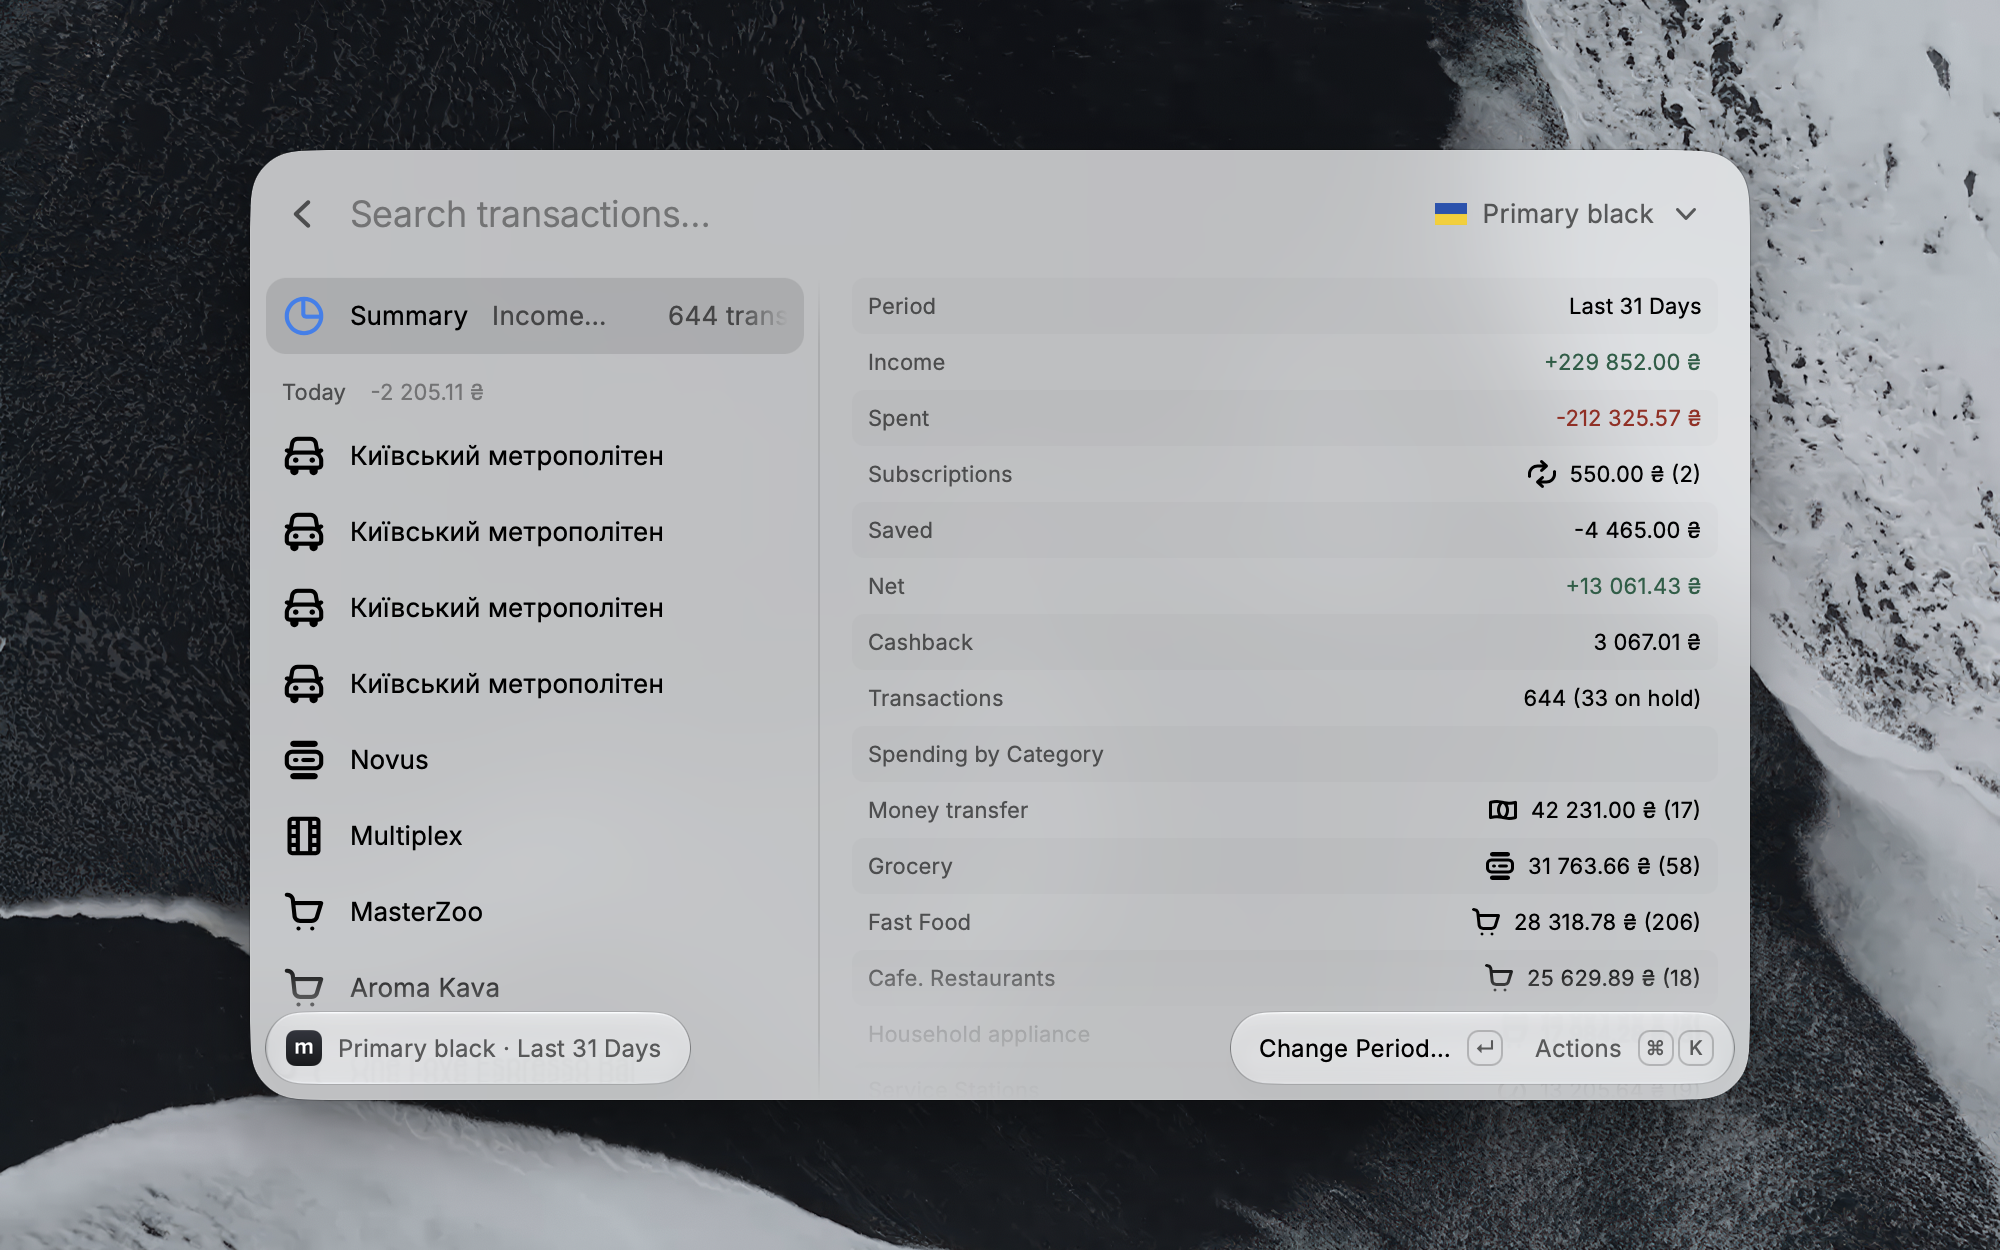
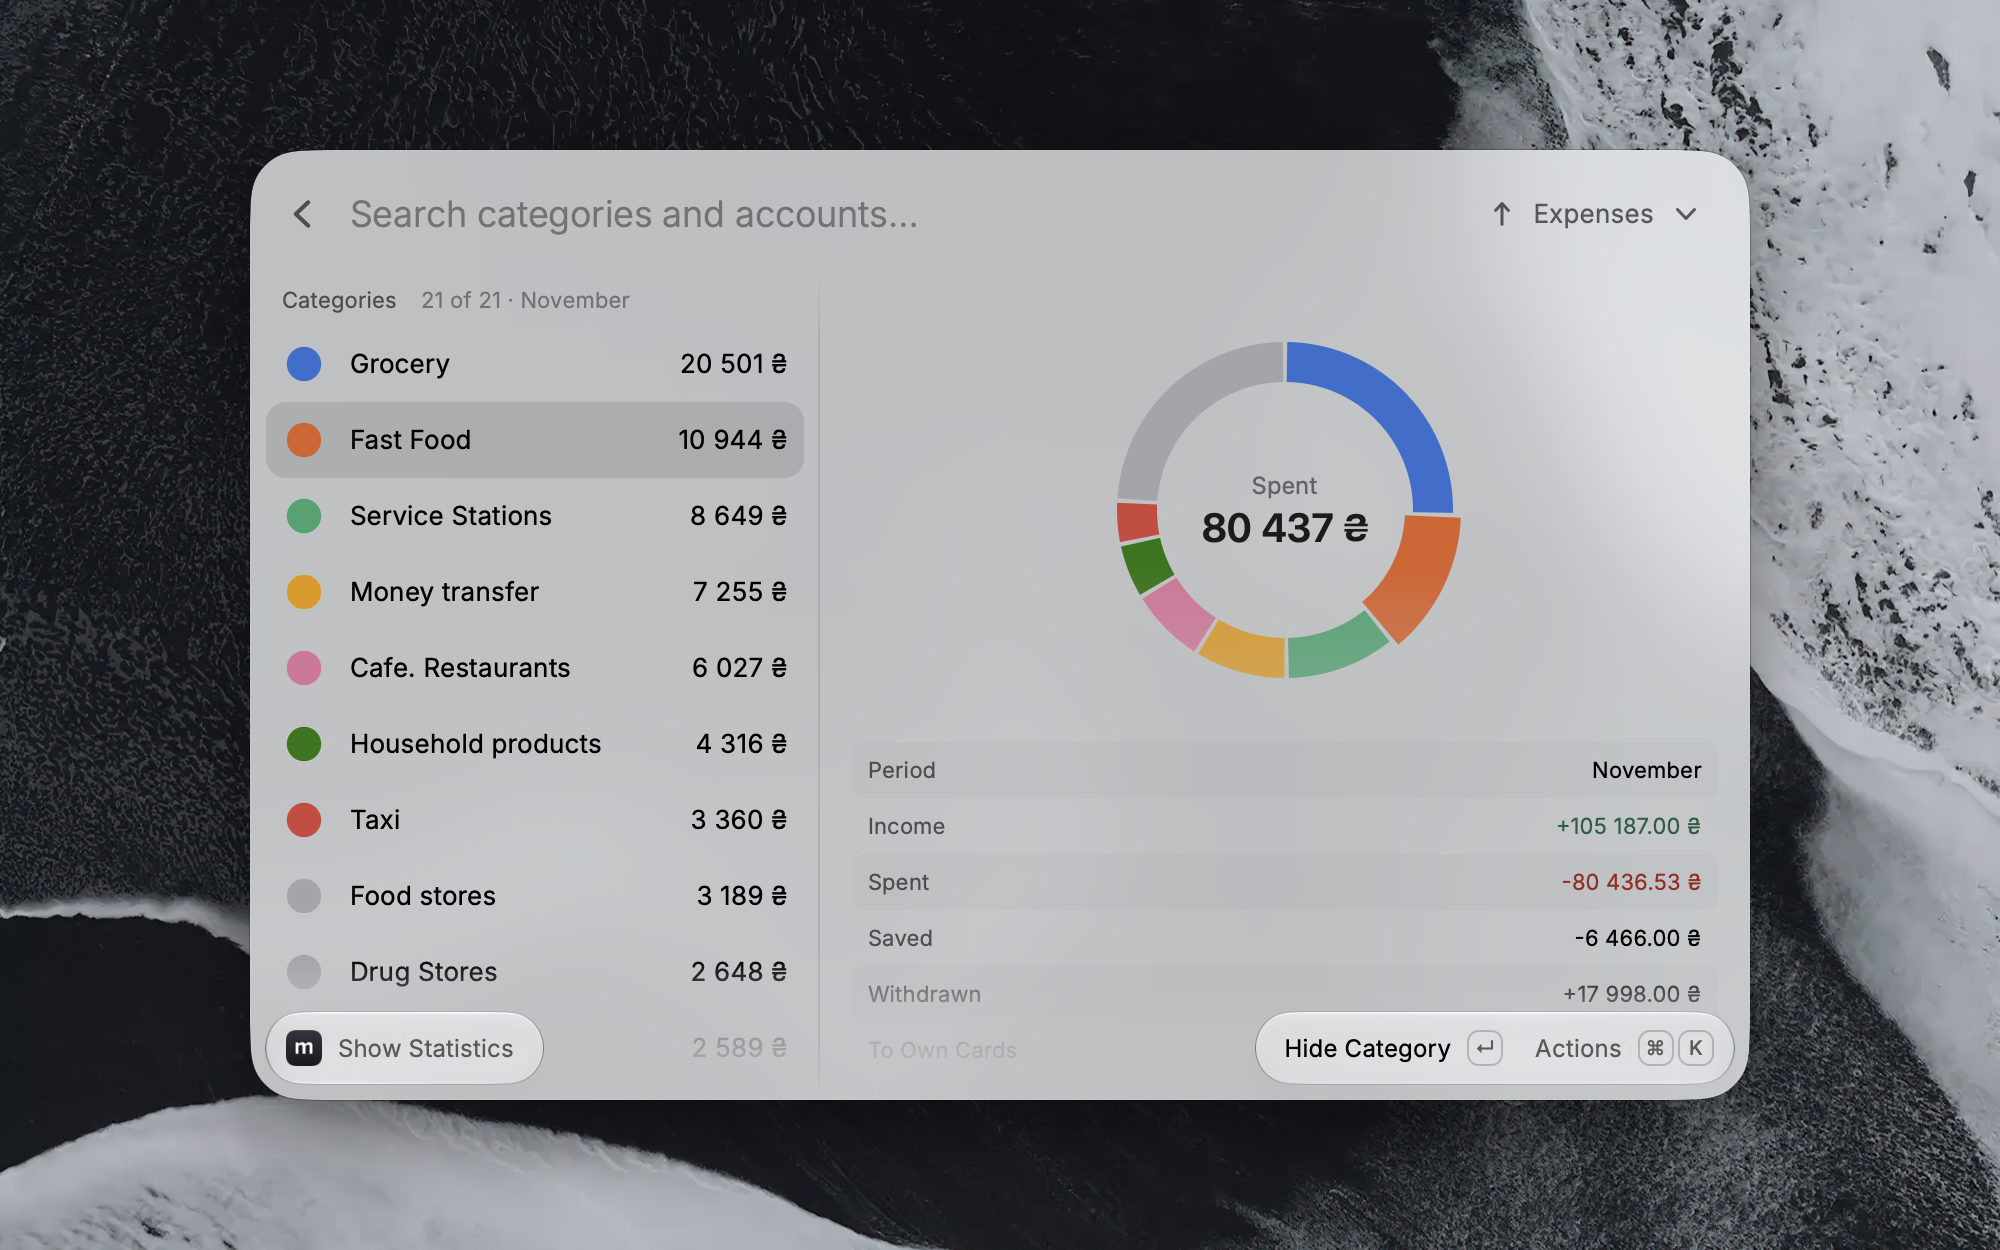
(feat) Included Show Statistics screenshot

diff --git a/README.md b/README.md
@@ -186,6 +186,8 @@ See where your money goes and where it comes from as a chart, across your cards 
 - **Updating**: the command shows what's stored right away, then updates the switched-on accounts not updated in the last 5 minutes, one request a minute. "Sync Statements" keeps the statements of all your accounts and jars, which own transfers are recognised from. Use Refresh (`⌘ R`) to update the switched-on accounts now.
 - The view you picked, the rows you hid and the accounts you switched on are remembered.
 
+![Statistics for the selected categories and accounts](media/statistics.png)
+
 ## Sync Statements
 
 Keeps the statements of all your cards, FOP accounts and jars up to date in the background, so "Show Statement" and AI answers have today's transactions right away, even for accounts you rarely open.
